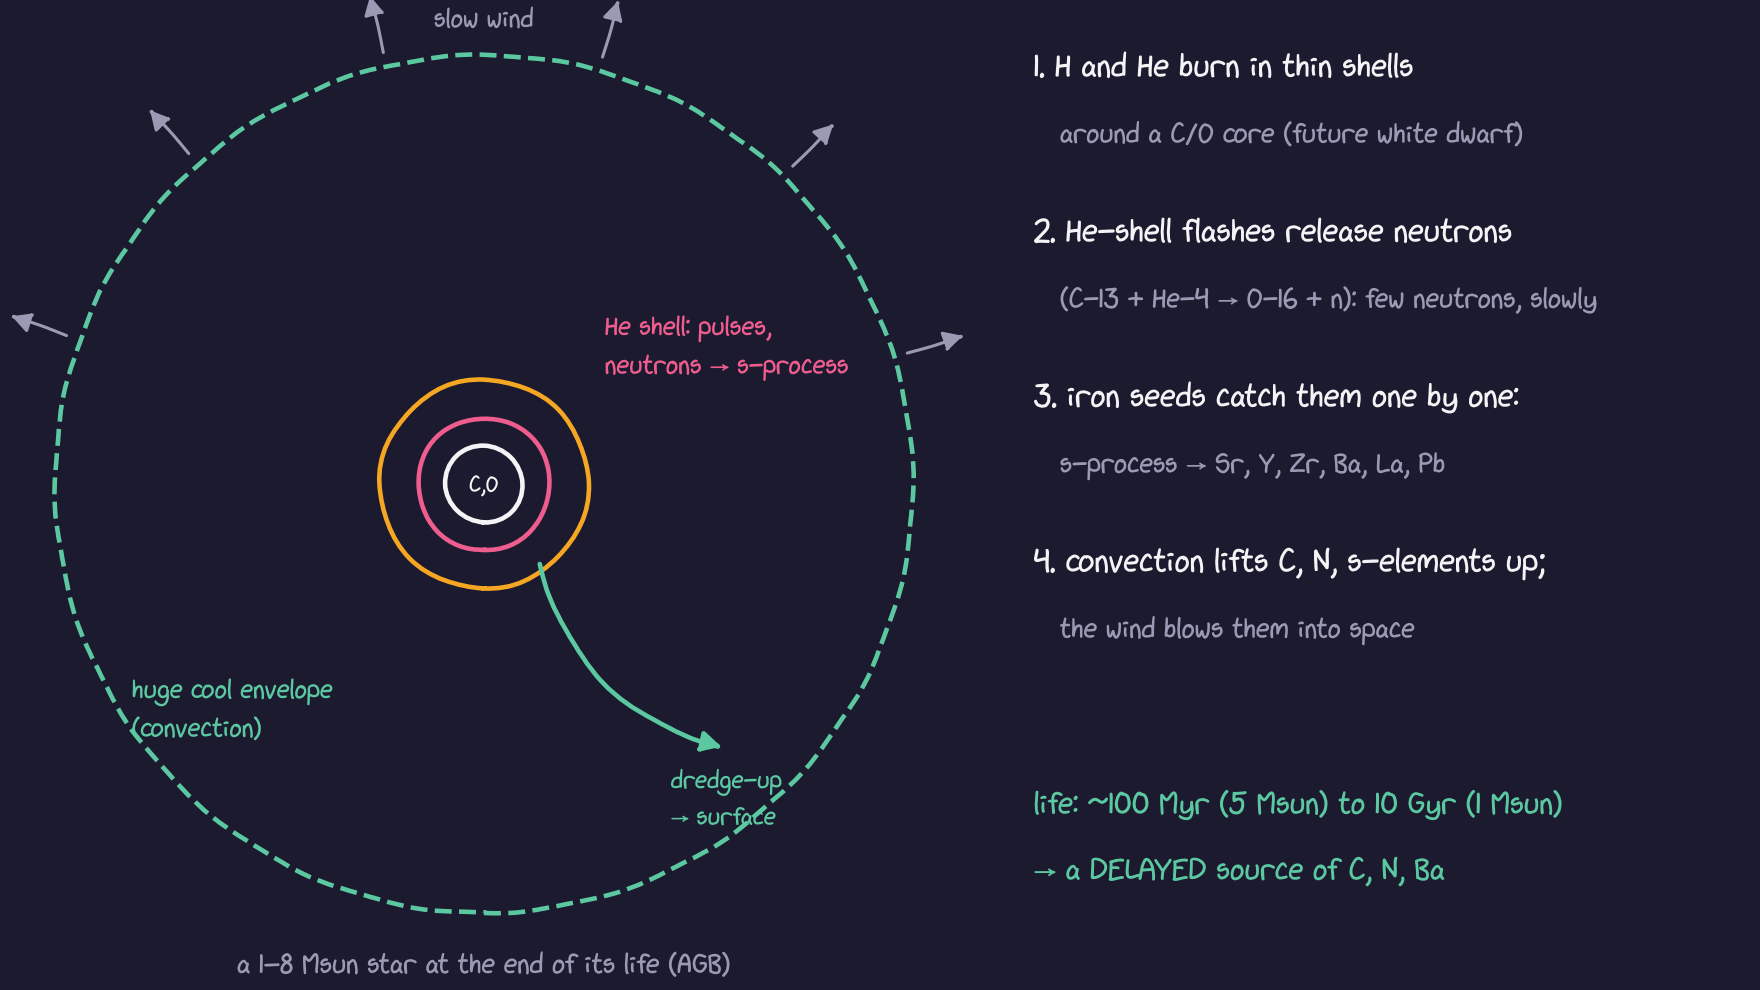
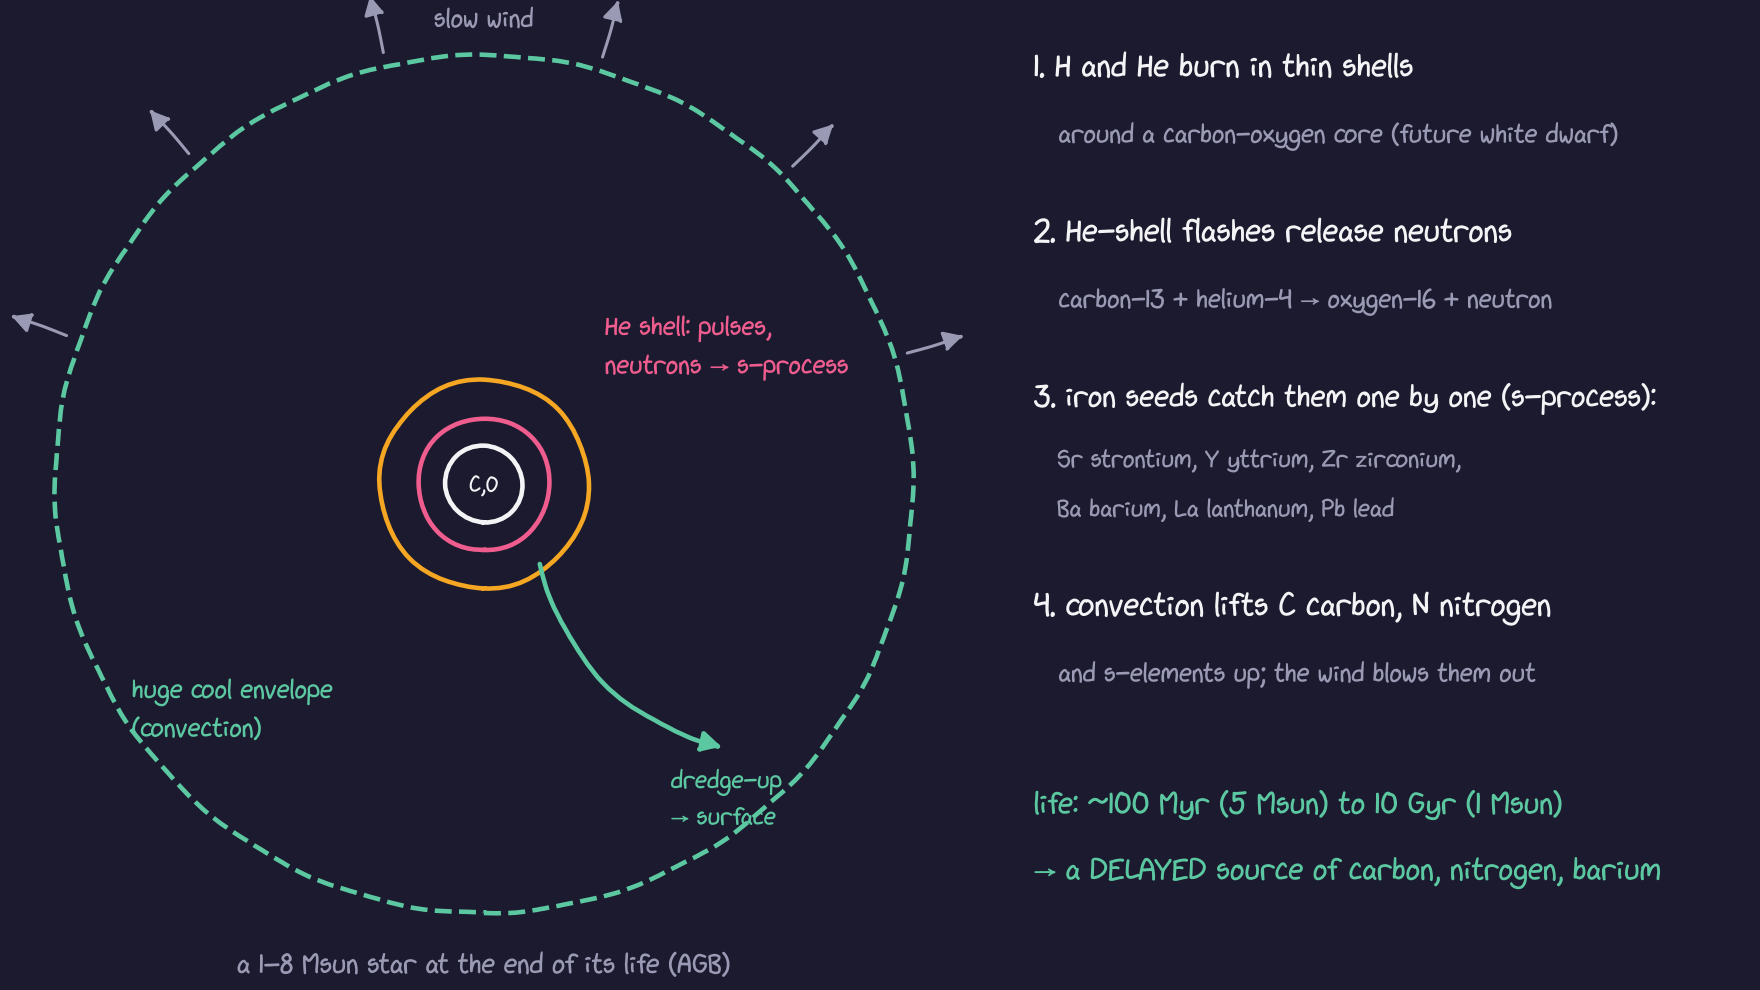
Factory figures: element symbols with full names
Claude-Session: https://claude.ai/code/session_01WBTdaRnm2ChJRsu6zYFdBL

diff --git a/figures/make_factory_figs.py b/figures/make_factory_figs.py
@@ -40,11 +40,13 @@ def save(fig, name):
 def massive_star():
     fig, ax = sketch()
     cx, cy = 4.6, 4.5
-    shells = [(3.9, "H", BLUE), (3.1, "He", GREEN), (2.4, "C", ORANGE), (1.75, "O, Ne", PINK), (1.15, "Si, S", VIOLET), (0.55, "Fe", INK)]
+    shells = [(3.9, "H hydrogen", BLUE), (3.1, "He helium", GREEN), (2.4, "C carbon", ORANGE), (1.75, "O, Ne  oxygen, neon", PINK),
+              (1.15, "Si, S  silicon, sulphur", VIOLET), (0.55, "Fe\niron", INK)]
     for r, lab, c in shells:
         ax.add_patch(Circle((cx, cy), r, fill=False, ec=c, lw=3))
     for (r, lab, c), (r2, _, _) in zip(shells, shells[1:] + [(0, "", "")]):
-        ax.text(cx, cy + (r + r2) / 2 - 0.15, lab, ha="center", va="center", color=c, fontsize=22)
+        fs = 21 if r > 2 else (16 if r > 1.5 else 11.5)
+        ax.text(cx, cy + (r + r2) / 2 - (0.1 if r > 0.6 else 0.0), lab, ha="center", va="center", color=c, fontsize=fs)
     ax.text(cx, 0.15, "a star above 8 Msun near its end (not to scale)", ha="center", fontsize=19, color=GREY)
     x0 = 9.3
     ax.text(x0, 8.3, "1. burns H → He → C → O, Ne → Si → Fe", fontsize=22, color=INK)
@@ -53,9 +55,10 @@ def massive_star():
     ax.text(x0, 6.2, "   the core collapses → neutron star / BH", fontsize=19, color=GREY)
     ax.text(x0, 5.3, "3. the shock heats the shells:", fontsize=22, color=INK)
     ax.text(x0, 4.7, "   explosive burning makes more Si, S, Ca", fontsize=19, color=GREY)
-    ax.text(x0, 4.2, "   and ~0.07 Msun of radioactive Ni-56 → Fe", fontsize=19, color=GREY)
+    ax.text(x0, 4.2, "   + 0.07 Msun of radioactive nickel → iron", fontsize=19, color=GREY)
     ax.text(x0, 3.3, "4. everything outside is thrown out:", fontsize=22, color=INK)
-    ax.text(x0, 2.7, "   O, Ne, Mg, Si, S, Ca ... a bit of Fe", fontsize=19, color=GREY)
+    ax.text(x0, 2.75, "   O oxygen, Ne neon, Mg magnesium, Si silicon,", fontsize=17, color=GREY)
+    ax.text(x0, 2.3, "   S sulphur, Ca calcium ... a bit of Fe iron", fontsize=17, color=GREY)
     ax.text(x0, 1.6, "life: 3 Myr (100 Msun) to 40 Myr (8 Msun)", fontsize=21, color=BLUE)
     ax.text(x0, 1.0, "→ the PROMPT source of α-elements", fontsize=21, color=BLUE)
     save(fig, "f1_massive_star")
@@ -80,22 +83,23 @@ def agb_star():
     ax.text(cx, 0.15, "a 1–8 Msun star at the end of its life (AGB)", ha="center", fontsize=19, color=GREY)
     x0 = 9.4
     ax.text(x0, 8.3, "1. H and He burn in thin shells", fontsize=22)
-    ax.text(x0, 7.7, "   around a C/O core (future white dwarf)", fontsize=19, color=GREY)
+    ax.text(x0, 7.7, "   around a carbon-oxygen core (future white dwarf)", fontsize=18, color=GREY)
     ax.text(x0, 6.8, "2. He-shell flashes release neutrons", fontsize=22)
-    ax.text(x0, 6.2, "   (C-13 + He-4 → O-16 + n): few neutrons, slowly", fontsize=19, color=GREY)
-    ax.text(x0, 5.3, "3. iron seeds catch them one by one:", fontsize=22)
-    ax.text(x0, 4.7, "   s-process → Sr, Y, Zr, Ba, La, Pb", fontsize=19, color=GREY)
-    ax.text(x0, 3.8, "4. convection lifts C, N, s-elements up;", fontsize=22)
-    ax.text(x0, 3.2, "   the wind blows them into space", fontsize=19, color=GREY)
+    ax.text(x0, 6.2, "   carbon-13 + helium-4 → oxygen-16 + neutron", fontsize=18, color=GREY)
+    ax.text(x0, 5.3, "3. iron seeds catch them one by one (s-process):", fontsize=21)
+    ax.text(x0, 4.75, "   Sr strontium, Y yttrium, Zr zirconium,", fontsize=17, color=GREY)
+    ax.text(x0, 4.3, "   Ba barium, La lanthanum, Pb lead", fontsize=17, color=GREY)
+    ax.text(x0, 3.4, "4. convection lifts C carbon, N nitrogen", fontsize=22)
+    ax.text(x0, 2.8, "   and s-elements up; the wind blows them out", fontsize=18, color=GREY)
     ax.text(x0, 1.6, "life: ~100 Myr (5 Msun) to 10 Gyr (1 Msun)", fontsize=21, color=GREEN)
-    ax.text(x0, 1.0, "→ a DELAYED source of C, N, Ba", fontsize=21, color=GREEN)
+    ax.text(x0, 1.0, "→ a DELAYED source of carbon, nitrogen, barium", fontsize=21, color=GREEN)
     save(fig, "f2_agb_star")
 
 
 # F3 ------------------------------------------------------------ SN Ia
 def sn_ia():
     fig, ax = sketch()
-    ax.add_patch(Circle((2.0, 6.2), 0.45, fill=False, ec=INK, lw=3)); ax.text(2.0, 5.3, "white dwarf\n(C/O, ~1.4 Msun)", ha="center", fontsize=16, va="top")
+    ax.add_patch(Circle((2.0, 6.2), 0.45, fill=False, ec=INK, lw=3)); ax.text(2.0, 5.3, "white dwarf\n(carbon + oxygen,\n~1.4 Msun)", ha="center", fontsize=16, va="top")
     ax.add_patch(Circle((5.3, 6.2), 1.4, fill=False, ec=ORANGE, lw=3)); ax.text(5.3, 4.5, "companion star\ngives it gas", ha="center", fontsize=16, va="top")
     arrow(ax, (4.0, 6.5), (2.55, 6.3), ORANGE, rad=0.25)
     ax.text(3.5, 8.3, "or: two white dwarfs merge", ha="center", fontsize=17, color=GREY)
@@ -109,9 +113,11 @@ def sn_ia():
     ax.text(x0, 6.8, "2. carbon ignites in degenerate matter:", fontsize=22)
     ax.text(x0, 6.2, "   no expansion to cool it → runaway", fontsize=19, color=GREY)
     ax.text(x0, 5.3, "3. the whole star burns in ~1 s:", fontsize=22)
-    ax.text(x0, 4.7, "   ~0.6–0.7 Msun of Ni-56 → Co-56 → Fe-56", fontsize=19, color=GREY)
-    ax.text(x0, 4.2, "   + Si, S, Ca, Mn;  almost no O or Mg", fontsize=19, color=GREY)
-    ax.text(x0, 3.3, "4. nothing left behind", fontsize=22)
+    ax.text(x0, 4.75, "   ~0.6–0.7 Msun of Ni-56 → Co-56 → Fe-56", fontsize=19, color=GREY)
+    ax.text(x0, 4.3, "   (nickel → cobalt → iron, radioactive decay)", fontsize=17, color=GREY)
+    ax.text(x0, 3.85, "   + Si silicon, S sulphur, Ca calcium, Mn manganese", fontsize=17, color=GREY)
+    ax.text(x0, 3.4, "   almost no O oxygen or Mg magnesium", fontsize=17, color=GREY)
+    ax.text(x0, 2.6, "4. nothing left behind", fontsize=22)
     ax.text(x0, 1.6, "delay: the WD must first form (≥ 40 Myr)", fontsize=21, color=ORANGE)
     ax.text(x0, 1.0, "and grow → ~1/t from 40 Myr to 10+ Gyr", fontsize=21, color=ORANGE)
     save(fig, "f3_sn_ia")
@@ -139,12 +145,13 @@ def neutron_captures():
     ax.text(x0, 8.3, "Beyond iron, fusion costs energy:", fontsize=22)
     ax.text(x0, 7.7, "heavy nuclei are built by adding neutrons", fontsize=19, color=GREY)
     ax.text(x0, 6.6, "s (slow): ~1 capture per 1–1000 yr", fontsize=22, color=GREEN)
-    ax.text(x0, 6.0, "   AGB stars → Sr, Y, Ba, La, Pb", fontsize=19, color=GREY)
-    ax.text(x0, 5.4, "   (Ba stars: s-elements from a companion)", fontsize=17, color=GREY)
-    ax.text(x0, 4.4, "r (rapid): > 10^20 neutrons/cm^3 for ~1 s", fontsize=22, color=PINK)
-    ax.text(x0, 3.8, "   neutron-star mergers → Eu, Pt, Au, U", fontsize=19, color=GREY)
-    ax.text(x0, 3.2, "   seen: kilonova of GW170817 (2017)", fontsize=17, color=GREY)
-    ax.text(x0, 2.0, "Ba is mostly s, Eu almost only r:", fontsize=21)
+    ax.text(x0, 6.05, "   AGB stars → Sr strontium, Y yttrium,", fontsize=17, color=GREY)
+    ax.text(x0, 5.6, "   Ba barium, La lanthanum, Pb lead", fontsize=17, color=GREY)
+    ax.text(x0, 4.6, "r (rapid): > 10^20 neutrons/cm^3 for ~1 s", fontsize=22, color=PINK)
+    ax.text(x0, 4.05, "   neutron-star mergers → Eu europium,", fontsize=17, color=GREY)
+    ax.text(x0, 3.6, "   Pt platinum, Au gold, U uranium", fontsize=17, color=GREY)
+    ax.text(x0, 3.15, "   seen: kilonova of GW170817 (2017)", fontsize=17, color=GREY)
+    ax.text(x0, 2.0, "Ba barium is mostly s, Eu europium only r:", fontsize=20)
     ax.text(x0, 1.4, "[Ba/Eu] tells which process dominated", fontsize=19, color=GREY)
     save(fig, "f4_neutron_captures")
 
@@ -153,15 +160,15 @@ def neutron_captures():
 def overview():
     plt.rcdefaults()
     mpl.rcParams.update({"figure.facecolor": BG, "savefig.facecolor": BG, "text.color": INK, "font.size": 17, "font.family": "DejaVu Sans"})
-    rows = [("bb", "the young Universe", "first 3 minutes:\nprotons + neutrons fuse", "H, He, a little Li", "13.8 Gyr ago, once"),
-            ("cr", "fast particles\nfrom supernovae", "fast protons break\nC, N, O in space", "Li, Be, B", "all the time"),
-            ("ccsn", "massive star\n> 8 M☉", "shell burning + core\ncollapse explosion", "O, Ne, Mg, Si, S, Ca,\n~40% of Fe, half of C", "3–40 Myr\n(prompt)"),
-            ("agb", "low/intermediate-\nmass star 1–8 M☉", "H/He shells, dredge-up,\ns-process", "C, N, Sr, Ba, Pb", "0.1–10 Gyr"),
-            ("ia", "white dwarf in\na binary", "thermonuclear runaway\nof C/O", "~60% of Fe, Mn, Ni", "40 Myr–10+ Gyr\n(delayed)"),
-            ("r", "two neutron stars\n(merging)", "r-process (rapid\nneutron capture)", "Eu, Pt, Au, U", "10 Myr–Gyr")]
+    rows = [("bb", "the young Universe", "first 3 minutes:\nprotons + neutrons fuse", "H hydrogen, He helium,\na little Li lithium", "13.8 Gyr ago, once"),
+            ("cr", "fast particles\nfrom supernovae", "fast protons break\ncarbon, nitrogen, oxygen", "Li lithium, Be beryllium,\nB boron", "all the time"),
+            ("ccsn", "massive star\n> 8 M☉", "shell burning + core\ncollapse explosion", "O oxygen, Ne neon, Mg magnesium,\nSi silicon, S sulphur, Ca calcium;\n~40% of Fe iron, half of C carbon", "3–40 Myr\n(prompt)"),
+            ("agb", "low/intermediate-\nmass star 1–8 M☉", "H/He shells, dredge-up,\ns-process", "C carbon, N nitrogen;\nSr strontium, Ba barium, Pb lead", "0.1–10 Gyr"),
+            ("ia", "white dwarf in\na binary", "thermonuclear runaway\nof carbon + oxygen", "~60% of Fe iron,\nMn manganese, Ni nickel", "40 Myr–10+ Gyr\n(delayed)"),
+            ("r", "two neutron stars\n(merging)", "r-process (rapid\nneutron capture)", "Eu europium, Pt platinum,\nAu gold, U uranium", "10 Myr–Gyr")]
     fig = plt.figure(figsize=(18, 8.4)); ax = fig.add_axes([0, 0, 1, 1]); ax.axis("off"); ax.set_xlim(0, 18); ax.set_ylim(0, 8.4)
-    cols = [0.9, 5.0, 8.5, 12.0, 15.3]
-    for x, h in zip(cols, ["factory", "who explodes / dies", "what happens", "main products", "delay"]):
+    cols = [0.9, 4.0, 6.9, 10.15, 15.4]
+    for x, h in zip(cols, ["factory", "progenitor", "what happens", "main products (symbol + name)", "delay"]):
         ax.text(x, 7.9, h, fontsize=19, color=GREY, fontweight="bold")
     for i, (k, *cells) in enumerate(rows):
         y = 6.75 - i * 1.25
@@ -169,7 +176,7 @@ def overview():
         lab = {"ccsn": "SN II\n(core collapse)", "ia": "SN Ia\n(white dwarf)", "agb": "AGB stars", "r": "NS mergers"}.get(k, SOURCES[k][0])
         ax.text(cols[0], y, lab, va="center", fontsize=18, fontweight="bold", color=SOURCES[k][1] if k != "cr" else INK)
         for x, c in zip(cols[1:], cells):
-            ax.text(x, y, c, va="center", fontsize=17)
+            ax.text(x, y, c, va="center", fontsize=16)
         ax.plot([0.3, 17.7], [y - 0.62, y - 0.62], color="#3a3956", lw=1)
     save(fig, "f0_factories_table")
 
